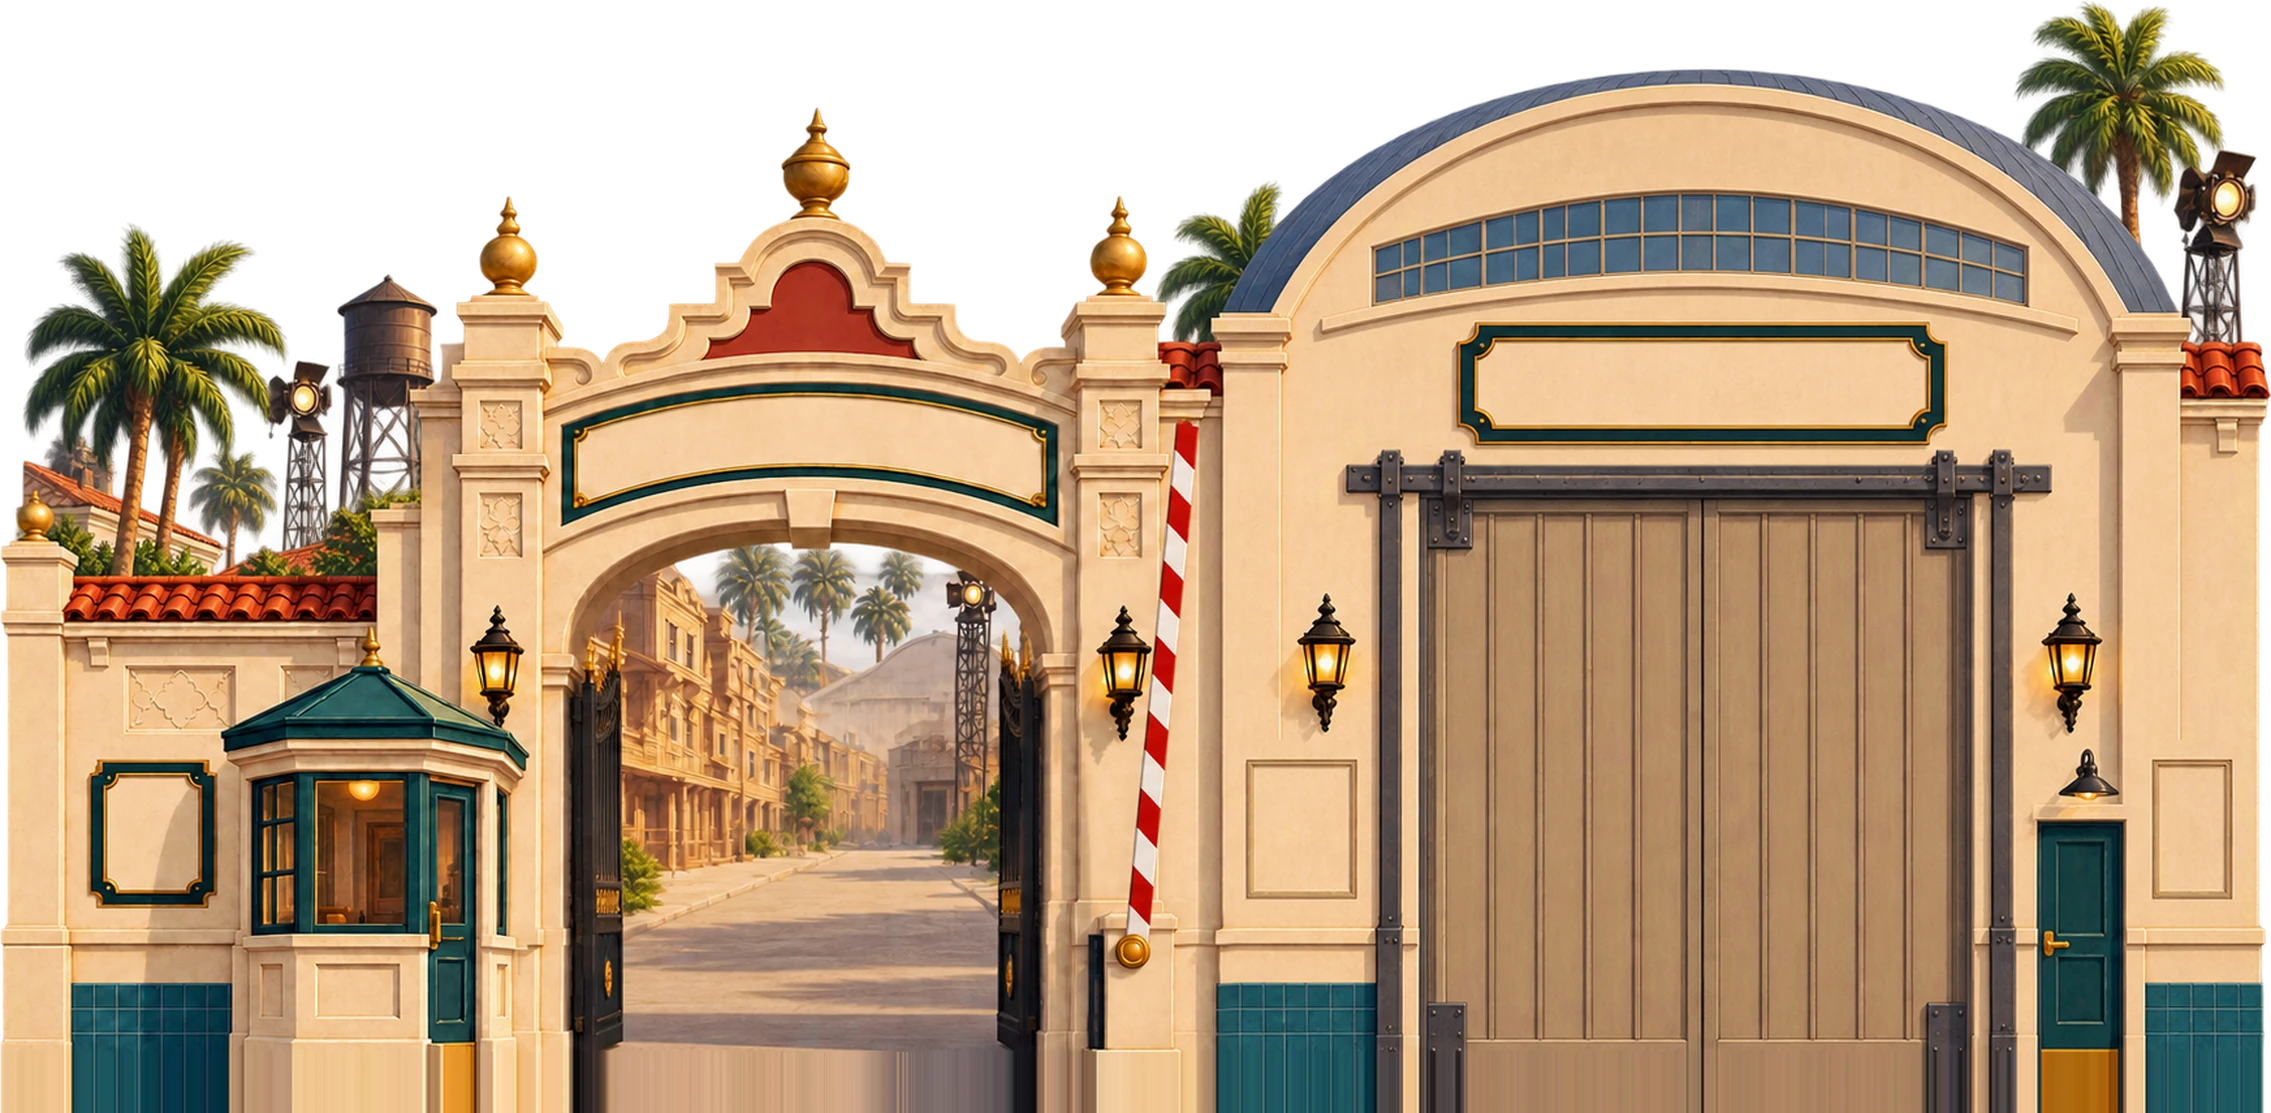
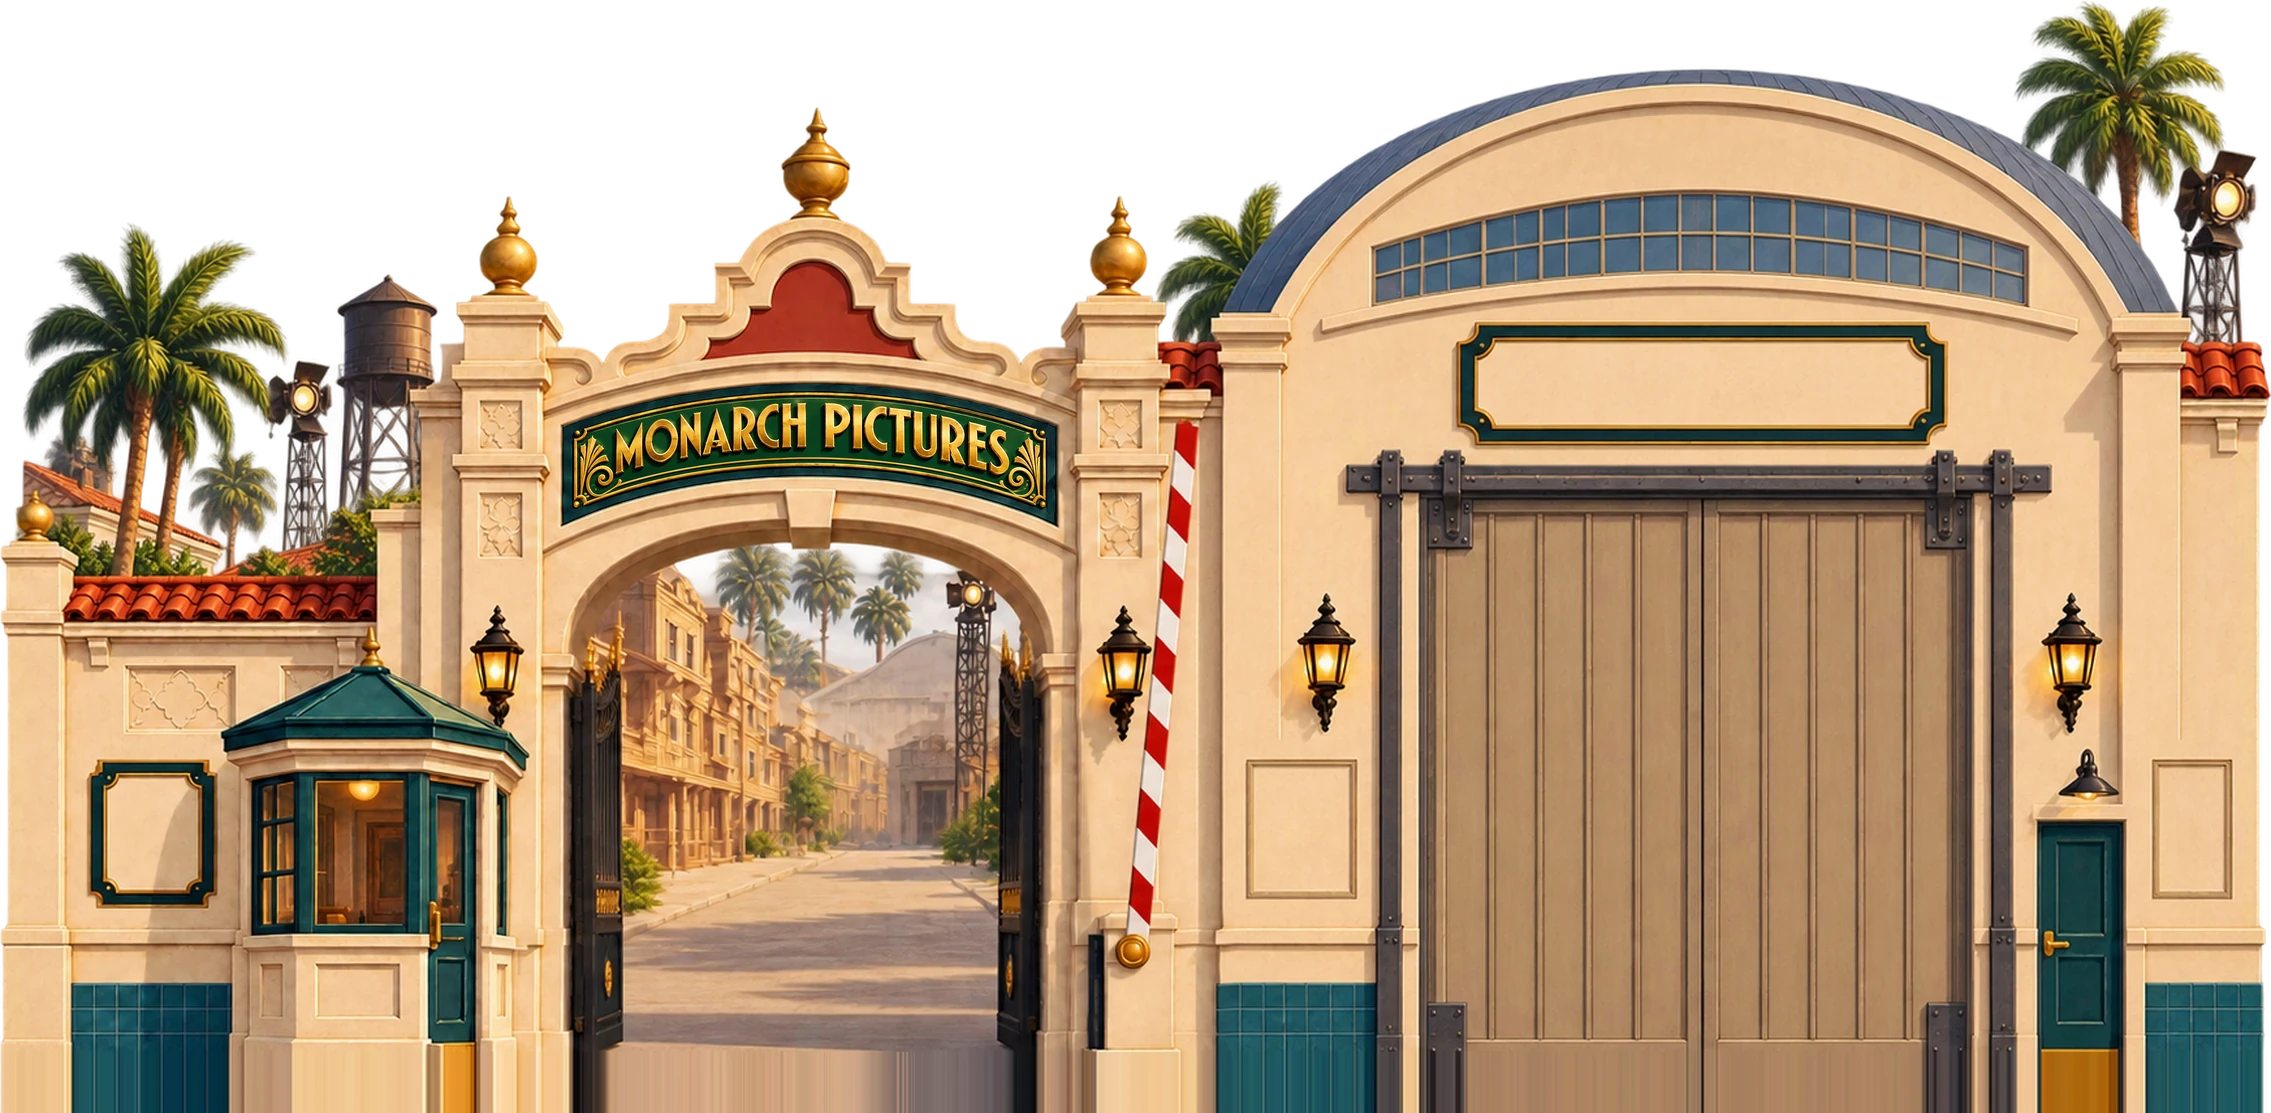
Paint an ornate Monarch Pictures sign into the gate's curved arch panel
The Monarch gate's curved arch panel was blank, with MONARCH PICTURES drawn
over it in code as plain green text. The panel is now a finished sign painted
into both gate modules (closed and open): a deep emerald enamel field, raised
gold-leaf Art Deco lettering that follows the curve, gold filigree fans and
scrolls at both ends, fine gold trim and rivets.

- The panel silhouette was traced and a gg-image edit of the arch crop was
  composited back into it (panel only, 1 px inset, 1.2 px feather). The edit
  registered exactly with the original, so the stucco arch, pylons, ornaments
  and keystone are pixel-identical. The same edit is in both modules, so the
  sign does not change when the gate opens.
- New optional BoulevardSign.painted flag: the scene draws no text for a
  painted sign, and the gate's location sets it. `text` stays as the sign's
  name for the tools and tests. The art-director mockup skips the overlay for
  painted signs too.
- Tests cover the flag (set only on the gate, validator accepts absent or
  boolean, rejects other types) and that the closed and open gate art are the
  same size.

Sources, prompts, the original modules, the composite script and provenance
are in art/generated/monarch-sign/ and art/prompts/boulevard-monarch-sign.md.

Changed region(s): [[0.2466, 0.336, 0.4624, 0.4582]]

diff --git a/tests/boulevard-manifest.test.ts b/tests/boulevard-manifest.test.ts
@@ -168,6 +168,35 @@ describe('committed Boulevard manifest', () => {
     }
   });
 
+  it('accepts a sign without the painted flag and rejects a non-boolean one', () => {
+    const withSign = (patch: Record<string, unknown>): unknown => ({
+      ...committed,
+      locations: committed.locations.map((l) =>
+        l.id === 'diner' && l.sign !== null ? { ...l, sign: { ...l.sign, ...patch } } : l,
+      ),
+    });
+    expect(isBoulevardManifest(withSign({}))).toBe(true);
+    expect(isBoulevardManifest(withSign({ painted: true }))).toBe(true);
+    expect(isBoulevardManifest(withSign({ painted: 'yes' }))).toBe(false);
+  });
+
+  it('paints the Monarch gate lettering into its art and draws text for every other sign', () => {
+    // The gate's ornate arch sign is baked into monarch-gate(.active).webp, so the scene must not draw MONARCH
+    // PICTURES over it; every other sign is still drawn as text on its painted panel.
+    const byId = new Map(committed.locations.map((l) => [l.id, l]));
+    expect(byId.get('backlot-gate')?.sign?.painted).toBe(true);
+    const others = committed.locations.filter((l) => l.id !== 'backlot-gate' && l.sign !== null);
+    for (const location of others) expect(location.sign?.painted, location.id).not.toBe(true);
+  });
+
+  it('keeps the Monarch gate closed and open art the same size', () => {
+    const gate = committed.buildings.find((b) => b.id === 'monarch-gate');
+    expect(gate?.activePath).not.toBeNull();
+    const closed = webpSize(gate?.path ?? '');
+    const open = webpSize(gate?.activePath ?? '');
+    expect(open).toEqual(closed);
+  });
+
   it('uses the approved canon names on the signs', () => {
     const text = committed.locations.flatMap((l) => (l.sign === null ? [] : [l.sign.text.replace(/\n/g, ' ')]));
     expect(text).toEqual(

diff --git a/src/game/BoulevardManifest.ts b/src/game/BoulevardManifest.ts
@@ -114,6 +114,10 @@ export interface BoulevardSign {
    * building art (the v3 modules are drawn with blank panels). When false the
    * scene draws the original hanging board with rivets and a glow. */
   readonly textOnly: boolean;
+  /** The lettering is already painted into the building art (the Monarch gate's
+   * ornate arch sign), so the scene draws no text over it. `text` stays as the
+   * sign's name for the tools and tests. Absent means false. */
+  readonly painted?: boolean;
 }
 
 export interface BoulevardLocation {
@@ -254,7 +258,8 @@ function isSign(value: unknown): value is BoulevardSign {
     typeof value.boardColor === 'string' &&
     typeof value.boardWidth === 'number' &&
     typeof value.boardHeight === 'number' &&
-    typeof value.textOnly === 'boolean'
+    typeof value.textOnly === 'boolean' &&
+    (value.painted === undefined || typeof value.painted === 'boolean')
   );
 }
 
@@ -681,6 +686,7 @@ const DEFAULT_BOULEVARD_MANIFEST_VALUE: BoulevardManifest = {
         boardWidth: 326,
         boardHeight: 89,
         textOnly: true,
+        painted: true,
       },
     },
     {

diff --git a/public/tools/art-director/index.html b/public/tools/art-director/index.html
@@ -1244,7 +1244,12 @@
 
     for (const loc of manifest.locations) {
       const s = loc.sign;
-      if (s) {
+      if (s && s.painted) {
+        // The lettering is painted into the building art; only outline it when selected.
+        if (activeLayoutType === 'sign' && activeLayoutId === loc.id) {
+          strokeSelectionRect(ctx, s.x - s.boardWidth / 2, s.y - s.boardHeight / 2, s.boardWidth, s.boardHeight);
+        }
+      } else if (s) {
         // Text-only signs sit on the panel already painted into the building
         // art, so no board is drawn behind the lettering.
         if (!s.textOnly) {

diff --git a/src/game/scenes/BoulevardSpikeScene.ts b/src/game/scenes/BoulevardSpikeScene.ts
@@ -329,7 +329,7 @@ export class BoulevardSpikeScene extends Phaser.Scene {
     }
 
     for (const location of this.manifest.locations) {
-      if (location.sign === null) continue;
+      if (location.sign === null || location.sign.painted === true) continue;
       if (location.sign.textOnly) {
         this.createSignText(location.sign);
         continue;

diff --git a/art/prompts/boulevard-monarch-sign.md b/art/prompts/boulevard-monarch-sign.md
@@ -1,0 +1,41 @@
+# Art brief: ornate Monarch Pictures arch sign
+
+Status: **built and in the working tree for owner review; not committed.** Replaces the plain text that was drawn over the gate's blank arch panel.
+
+## What it is
+
+The Monarch Pictures gate module (`monarch-gate.webp` closed, `monarch-gate-active.webp` open) had a blank cream curved panel across its arch, with the words MONARCH PICTURES drawn over it in code as plain green text (`textOnly`). The panel is now a finished sign, painted into both modules: a deep emerald enamel field, raised gold-leaf Art Deco capitals reading MONARCH PICTURES on one line and following the panel's curve, gold filigree fans and scrolls at both ends, a fine gold double trim inside the original teal border, and small gold rivets at the ends.
+
+## Method
+
+- The curved panel's silhouette was traced in module pixels (498 x 145 px at `(561, 382)`), and a 545 x 192 crop of the arch around it was sent to gg-image as an **edit** with the panel's shape, position and border to be kept and everything outside it unchanged.
+- Two takes; take 2 chosen (more level lettering, richer green). The edit registers with the original exactly: 0 px shift, panel bounding boxes identical, so no alignment was needed.
+- Only the panel's own silhouette (shrunk 1 px, feathered 1.2 px) was composited back into the modules, so the stucco arch, pylons, ornaments and keystone are pixel-identical to the approved modules. The open-gate module's panel outline overlaps the closed one by 99.4%, and the same edit was composited into both, so the sign never changes when the gate opens.
+- The lettering is now art, so the scene no longer draws it: `sign.painted: true` on the `backlot-gate` location in `data/boulevard-manifest.json` (an optional flag in `BoulevardSign`; `text` stays as the sign's name for the tools and tests). The art-director mockup skips the overlay for painted signs too.
+
+## Prompt
+
+`art/generated/monarch-sign/prompt-edit-r1.txt`. Key points: replace only the blank cream area inside the curved panel; keep its outer shape, position, size, curvature and teal border; emerald enamel field, raised gold Art Deco lettering reading exactly MONARCH PICTURES on one line, curving with the band and filling most of its height and width, filigree at the ends, gold double-line trim and rivets; everything outside the panel unchanged; no other text.
+
+## Provenance record
+
+```text
+asset_id: boulevard_v3_monarch_gate_ornate_sign
+asset_type: edit of two approved Plane 4 building modules (closed and open Monarch gate), sign panel only
+prompt_or_brief: this file; art/generated/monarch-sign/prompt-edit-r1.txt
+reference_asset_ids: boulevard_v3_monarch_gate_wide, boulevard_v3_monarch_gate_wide_active
+generation_tool_and_version: gpt-image-2 via gg-image edit (Codex ChatGPT backend), --quality high; local mask tracing and compositing with art/generated/monarch-sign/tools/composite_sign.py
+generation_date: 2026-09-20
+raw_source_location: art/generated/monarch-sign/edit-take1.png and edit-take2.png (edits of ref-crop.png)
+human_edits: none to the drawing. Deterministic processing only: crop, downscale of the edit from 2112 to 545 px wide, panel-silhouette composite with a 1 px inset and 1.2 px feather
+originals: art/generated/monarch-sign/originals/monarch-gate.webp and monarch-gate-active.webp (the modules before this change)
+review_status: pending owner review
+rights_or_license_notes: project-owned development generation; human rights/provenance review required. The lettering is the studio name only.
+runtime_files: public/assets/environments/boulevard-v3/buildings/monarch-gate.webp and monarch-gate-active.webp (2271 x 1113 RGBA, lossy quality 90, alpha_quality 100, same size and transform as before)
+```
+
+## Known issues for the reviewer
+
+- The sign's lettering was drawn by the model, not typeset. It reads correctly and follows the curve, but its letter shapes are its own; a different take can be composited in with the same script.
+- The new sign is much brighter and more detailed than the rest of the arch, by design, since it is the gate's headline; if it competes with the gate for attention it can be toned down.
+- Because the text is now art, changing the sign's `text` in the art-director tool no longer changes what shows in the game.

diff --git a/docs/DECISION_LOG.md b/docs/DECISION_LOG.md
@@ -104,4 +104,5 @@ The exact Phaser/Vite versions, analytics provider, deployment provider, animati
 | Phase 1 visual tweaks | Owner will outline minor tweaks to the approved Phase 1 visual spike | 2026-09-19 |
 | Phase 1 exit | Measured feasibility report and final asset/frame budgets are still needed (`PRODUCTION_ROADMAP.md`) | 2026-09-19 |
 | The alley | The only Boulevard entrance without a scene | 2026-09-19 |
+| Monarch arch sign | Owner review of the ornate Monarch Pictures sign painted into the gate's curved arch panel, replacing the plain drawn text. Built on `claude/monarch-sign`, not committed (`art/prompts/boulevard-monarch-sign.md`) | 2026-09-20 |
 | Main Menu film slate | Owner review of the new Main Menu: a 1930s film slate replaces the dark panel, and `art/Hollywoodland_Logo.png` replaces the title text. Built on `claude/main-menu-slate`, not committed (`art/prompts/ui-main-menu-slate.md`) | 2026-09-20 |
